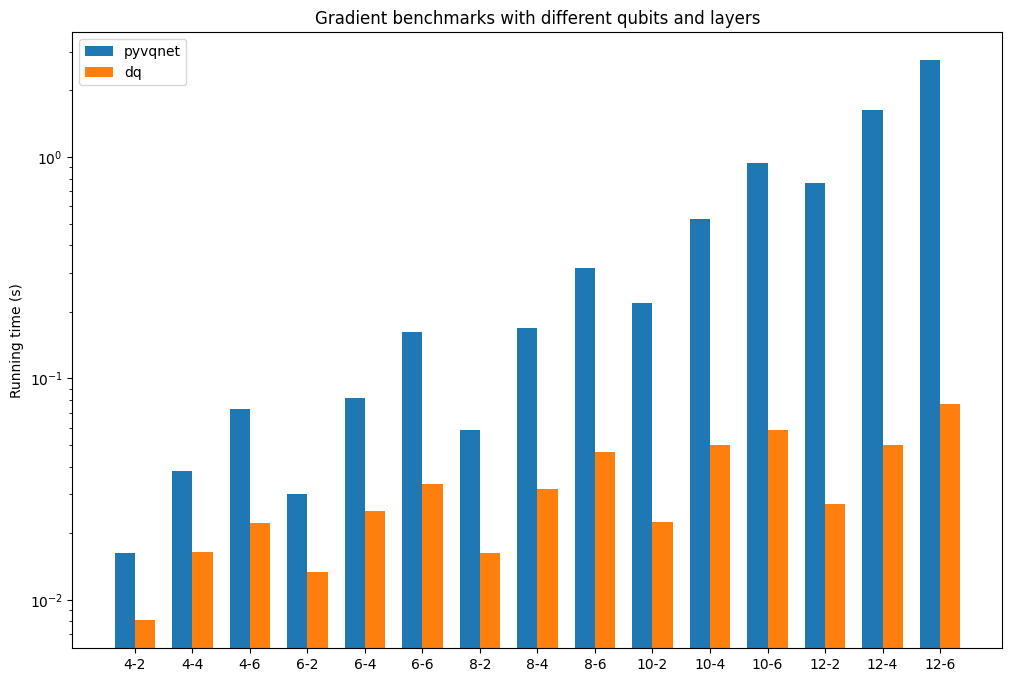
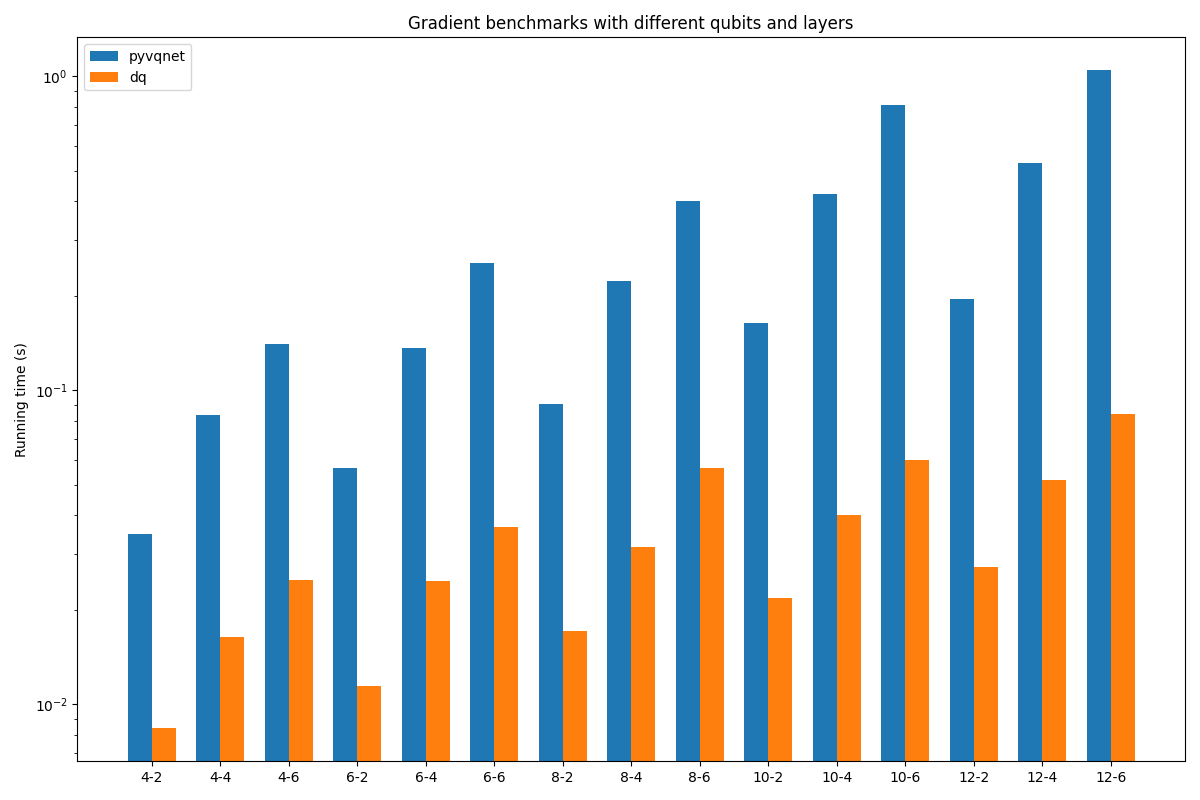
fix x observables

Changed region(s): [[0.0, 0.0308, 0.9496, 0.9853], [0.9802, 0.0308, 1.0, 0.9545], [0.3063, 0.0, 0.7658, 0.0616]]

diff --git a/examples/benchmarks/gradient_benchmark.py b/examples/benchmarks/gradient_benchmark.py
@@ -19,7 +19,8 @@ import torch
 from torch.autograd.functional import hessian
 import deepquantum as dq
 
-from pyvqnet.qnn import grad, ProbsMeasure
+from pyvqnet.qnn import grad
+from pyvqnet.qnn.measure import expval
 import pyqpanda as pq
 
 
@@ -175,16 +176,18 @@ def grad_pyvqnet(n, l ,trials=10):
         qubits = machine.qAlloc_many(n)
         circuit = pq.QCircuit()
         for j in range(l):
-            for i in range(n-1):
-                circuit.insert(pq.CNOT(qubits[i], qubits[i+1]))
+            for i in range(n - 1):
+                circuit.insert(pq.CNOT(qubits[i], qubits[i + 1]))
             for i in range(n):
                 circuit.insert(pq.RX(qubits[i], param[3 * n * j + i]))
                 circuit.insert(pq.RZ(qubits[i], param[3 * n * j + i + n]))
                 circuit.insert(pq.RX(qubits[i], param[3 * n * j + i + 2 * n]))
         prog = pq.QProg()
         prog.insert(circuit)
-        EXP = ProbsMeasure(list(range(n)),prog,machine,qubits)
-        return EXP
+        Xn_string = ', '.join([f'X{i}' for i in range(n)])
+        pauli_dict  = {Xn_string:1.}
+        exp = expval(machine, prog,pauli_dict, qubits)
+        return exp
 
     def get_grad(values):
         return grad(pqctest, values)
